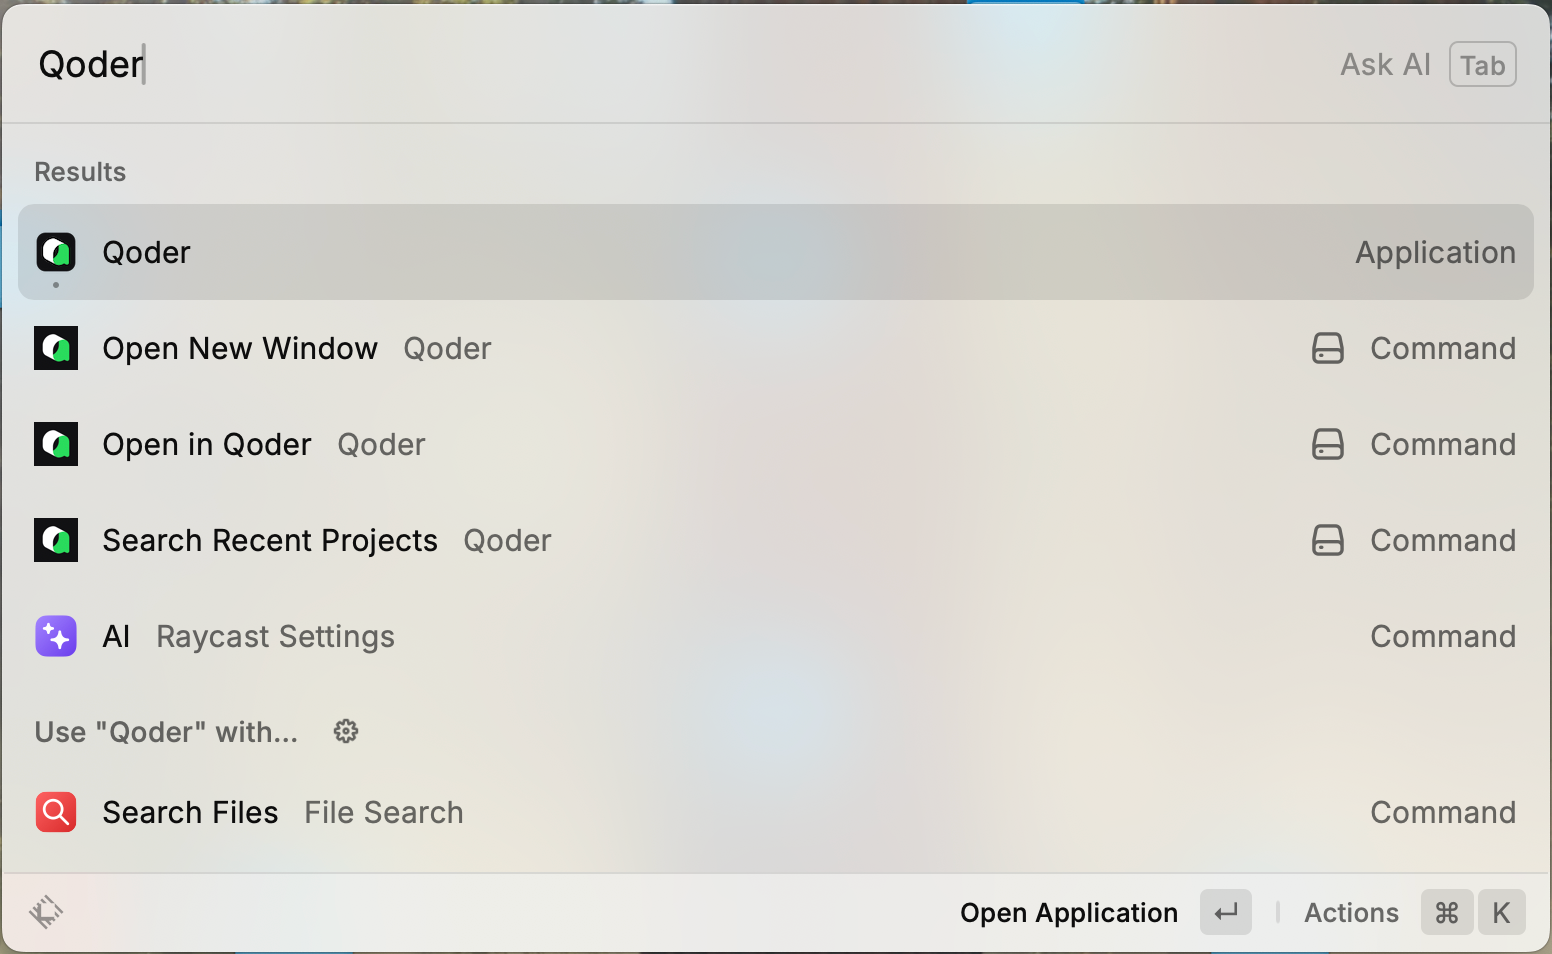
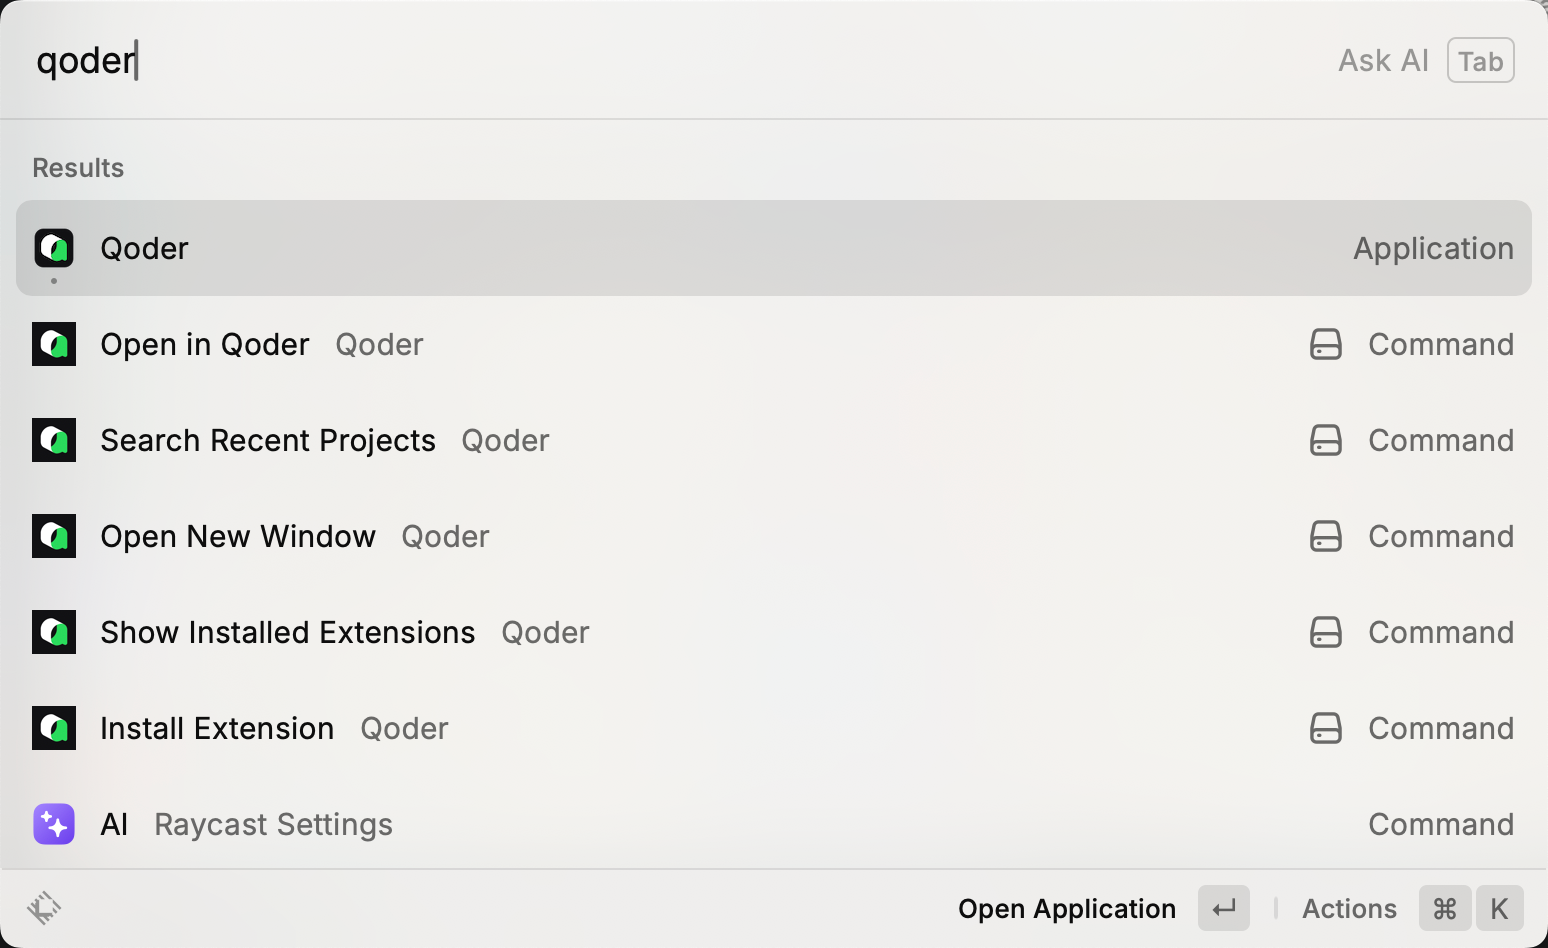
docs: 更新README添加新功能说明

diff --git a/README.md b/README.md
@@ -13,6 +13,8 @@ A Raycast extension that provides quick access to Qoder AI Editor with convenien
 - **Open New Window** - Launch a new Qoder window instantly
 - **Search Recent Projects** - Quickly search and open your recently accessed Qoder projects
 - **Open in Qoder** - Open selected files or folders from Finder directly in Qoder
+- **Install Extension** - Install Qoder extensions by ID from the marketplace
+- **Show Installed Extensions** - View and manage all installed Qoder extensions
 
 ## Installation
 
@@ -34,6 +36,15 @@ Displays a searchable list of your recent Qoder projects with actions to:
 
 ### Open in Qoder
 Opens the currently selected file or folder in Finder with Qoder.
+
+### Install Extension
+Install a Qoder extension by entering its ID (e.g., `ms-python.python`). The extension will be installed directly in Qoder.
+
+### Show Installed Extensions
+Displays a searchable list of all installed Qoder extensions with actions to:
+- Open extension folder
+- Copy extension ID
+- Copy extension name
 
 ## Requirements
 
